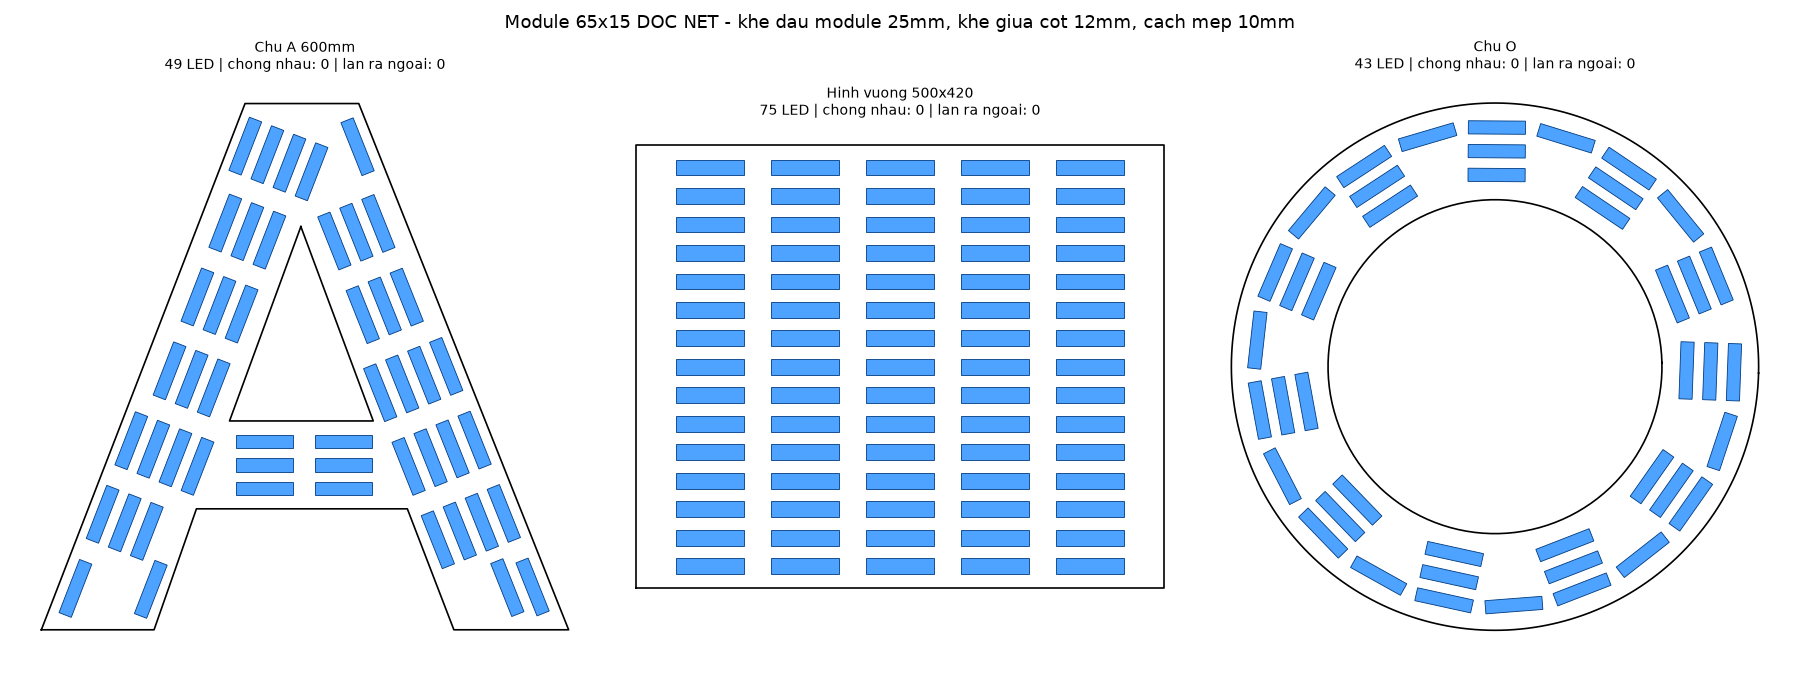
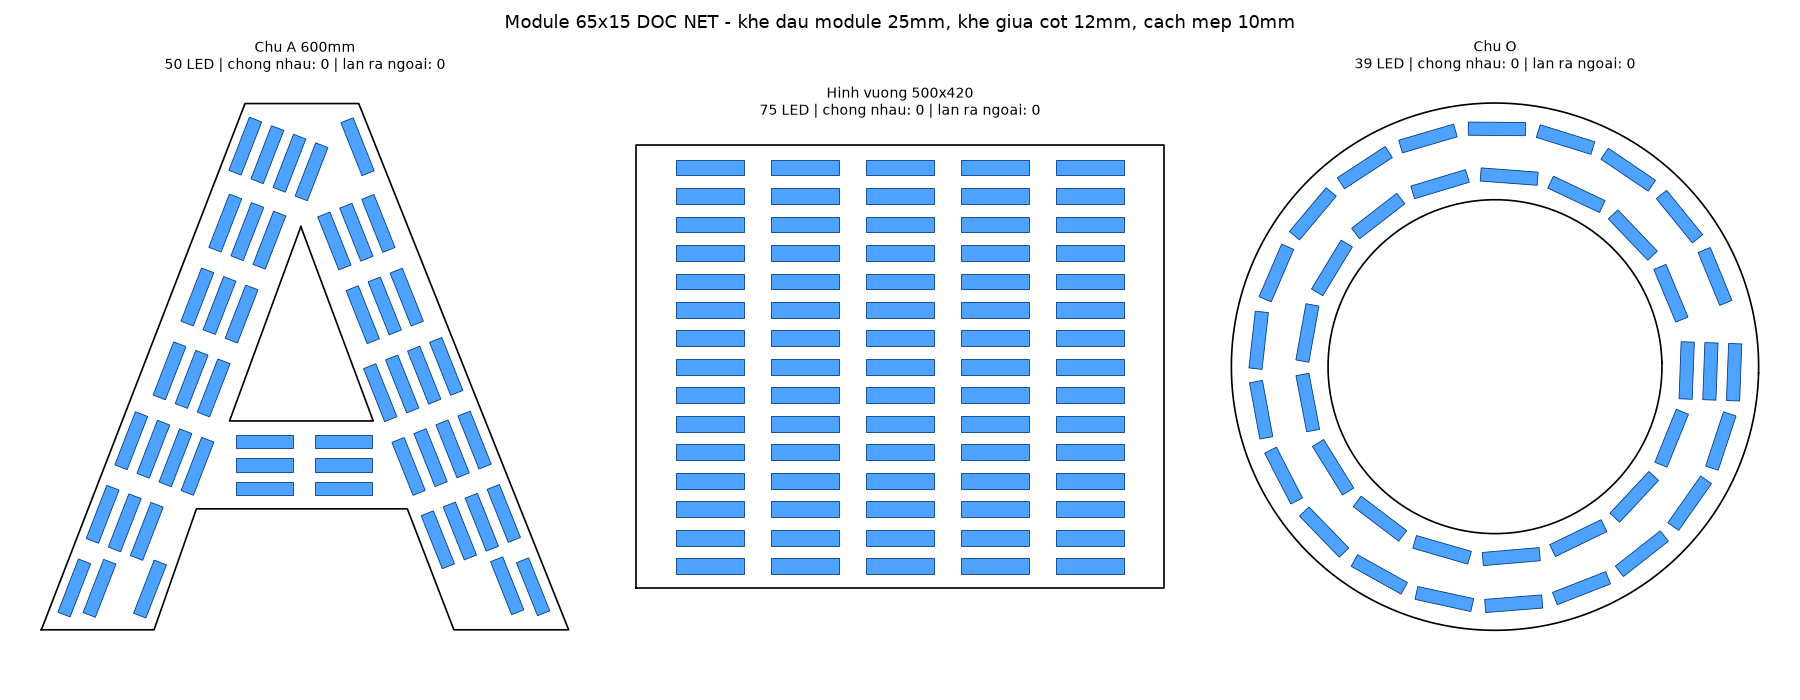
Mo phong: LED doc net om theo net cong, mo phong duong di day noi tiep
Claude-Session: https://claude.ai/code/session_01UdkBWUEPBEAfwjRS5SRwmw

diff --git a/prototype/led_layout.py b/prototype/led_layout.py
@@ -57,6 +57,7 @@ class Layout:
     def __init__(self, poly, cfg):
         self.poly, self.cfg, self.leds = poly, cfg, []
         self.clear = min(cfg.gap, cfg.row_gap)
+        self.tags = []
         self.nodes = [c for ring in [poly.exterior, *poly.interiors] for c in ring.coords]
 
     def inside(self, x, y):                      # = Curve.IsOnCurve(...) = cdrInsideShape
@@ -82,13 +83,14 @@ class Layout:
                 return False
         return True
 
-    def try_add(self, led):
+    def try_add(self, led, idx=0):
         for o in self.leds:
             if sat_overlap(o, led, self.clear):
                 return False
         if not self.fits_shape(led):
             return False
         self.leds.append(led)
+        self.tags.append((getattr(self, "cur_seq", (0, 0)), idx))
         return True
 
     # ---------- Chia duong bao thanh cac doan ----------
@@ -162,11 +164,14 @@ class Layout:
         hl, hw = c.L / 2, c.W / 2
         size_n = c.L if across else c.W        # kich thuoc LED theo chieu ngang net
         nrm = self.normals(pts)
+        step = math.hypot(pts[1].x - pts[0].x, pts[1].y - pts[0].y) if len(pts) > 1 else 1
+        closed = math.hypot(pts[-1].x - pts[0].x, pts[-1].y - pts[0].y) < 2 * step
+        half = max(1, int(round(hl / step)))
         depths = [self.depth(p.x, p.y, v[2], v[3]) for p, v in zip(pts, nrm)]
         med = sorted(depths)[len(depths) // 2]
         rows = {}
         for i, (p, (ux, uy, vx, vy), D) in enumerate(zip(pts, nrm, depths)):
-            if D > med * 1.3:                   # tia xuyen sang net khac (cho giao net)
+            if D > med:                         # tia xuyen sang net khac: giu so cot deu
                 D = med
             avail = D - 2 * m
             if avail < size_n:
@@ -176,10 +181,27 @@ class Layout:
             for k in range(n):
                 off = start + size_n / 2 + k * (size_n + c.row_gap)
                 cx, cy = p.x + vx * off, p.y + vy * off
-                led = (cx, cy, hl, hw, vx, vy) if across else (cx, cy, hl, hw, ux, uy)
+                if across:
+                    led = (cx, cy, hl, hw, vx, vy)
+                else:
+                    # LED doc net: dat theo day cung cua duong chay (om theo net cong)
+                    ia, ib = i - half, i + half
+                    if closed:
+                        ia, ib = ia % len(pts), ib % len(pts)
+                    if 0 <= ia < len(pts) and 0 <= ib < len(pts):
+                        pa, pb = pts[ia], pts[ib]
+                        ax_, ay_ = pa.x + nrm[ia][2] * off, pa.y + nrm[ia][3] * off
+                        bx_, by_ = pb.x + nrm[ib][2] * off, pb.y + nrm[ib][3] * off
+                        dx_, dy_ = bx_ - ax_, by_ - ay_
+                        dd = math.hypot(dx_, dy_) or 1
+                        led = ((ax_ + bx_) / 2, (ay_ + by_) / 2, hl, hw, dx_ / dd, dy_ / dd)
+                    else:
+                        led = (cx, cy, hl, hw, ux, uy)
                 rows.setdefault(k, []).append((i, led))
         phase = None
+        self.run_id = getattr(self, "run_id", 0) + 1
         for k in sorted(rows):
+            self.cur_seq = (self.run_id, k)
             phase = self.place_row(rows[k], ps, phase)
 
     def ok(self, led):
@@ -211,11 +233,12 @@ class Layout:
                         self.try_add(by_idx[i])
             # Doan cong: lap cho trong con lai (doan thang da kin nen khong them gi)
             for i, led in seg:
-                self.try_add(led)
+                self.try_add(led, i)
         return phase
 
     def run(self, mode="auto", fill_gaps=True):
         c = self.cfg
+        self.seq_key = None
         passes = []
         if mode in ("auto", "across"):
             passes.append((True, c.W + c.gap))       # LED nam ngang net

diff --git a/prototype/wiring.py b/prototype/wiring.py
@@ -1,0 +1,81 @@
+"""
+Mo phong duong di day LED noi tiep.
+  - Moi "chuoi" = cac LED cung 1 hang tren 1 doan net, xep theo thu tu doc net.
+  - Noi cac chuoi: tu diem hien tai, di toi dau chuoi gan nhat (tu nhien thanh zic-zac).
+  - Moi LED co 2 dau (dau vao / dau ra) o 2 dau canh dai; tu chon chieu de day ngan nhat.
+  - Tach day moi khi du so LED toi da tren 1 day.
+"""
+import math
+
+
+def led_ends(led):
+    cx, cy, hl, hw, ux, uy = led
+    return (cx - ux * hl, cy - uy * hl), (cx + ux * hl, cy + uy * hl)
+
+
+def dist(a, b):
+    return math.hypot(a[0] - b[0], a[1] - b[1])
+
+
+def outside_ratio(inside, a, b, n=10):
+    """Ti le doan day a-b nam ngoai chu."""
+    bad = sum(1 for k in range(1, n) if not inside(a[0] + (b[0] - a[0]) * k / n, a[1] + (b[1] - a[1]) * k / n))
+    return bad / (n - 1)
+
+
+def build_chains(leds, tags, max_per_wire=30, inside=None):
+    seqs = {}
+    for n, (key, idx) in enumerate(tags):
+        seqs.setdefault(key, []).append((idx, n))
+    seqs = [[n for _, n in sorted(v)] for v in seqs.values()]
+    # tach chuoi neu 2 LED lien tiep qua xa (vi du bi ngat o giao net)
+    parts = []
+    for s in seqs:
+        cur = [s[0]]
+        for a, b in zip(s, s[1:]):
+            if dist(leds[a][:2], leds[b][:2]) > 3 * (leds[a][2] + leds[a][3]):
+                parts.append(cur); cur = []
+            cur.append(b)
+        parts.append(cur)
+
+    # diem bat dau: LED thap nhat ben trai (goc duoi trai chu)
+    order, used = [], [False] * len(parts)
+    start = min(range(len(parts)), key=lambda i: min(leds[n][1] + 0.3 * leds[n][0] for n in parts[i]))
+    cur_pt = None
+    i = start
+    rev = False
+    while i is not None:
+        used[i] = True
+        seq = parts[i][::-1] if rev else parts[i]
+        order.extend(seq)
+        cur_pt = leds[seq[-1]][:2]
+        best, i, rev = None, None, False
+        for j, p in enumerate(parts):
+            if used[j]:
+                continue
+            for r, end in ((False, p[0]), (True, p[-1])):
+                d = dist(cur_pt, leds[end][:2])
+                if inside is not None:          # phat day chay ra ngoai chu
+                    d *= 1 + 5 * outside_ratio(inside, cur_pt, leds[end][:2])
+                if best is None or d < best:
+                    best, i, rev = d, j, r
+
+    # chon dau vao/dau ra cho tung LED va chia day
+    wires, pts = [], []
+    prev_out = None
+    for k, n in enumerate(order):
+        a, b = led_ends(leds[n])
+        if prev_out is None:
+            nxt = leds[order[k + 1]][:2] if k + 1 < len(order) else b
+            inp, out = (a, b) if dist(b, nxt) < dist(a, nxt) else (b, a)
+        else:
+            inp, out = (a, b) if dist(prev_out, a) <= dist(prev_out, b) else (b, a)
+        if len(pts) // 2 >= max_per_wire:
+            wires.append(pts); pts = []; prev_out = None
+            nxt = leds[order[k + 1]][:2] if k + 1 < len(order) else b
+            inp, out = (a, b) if dist(b, nxt) < dist(a, nxt) else (b, a)
+        pts += [inp, out]
+        prev_out = out
+    if pts:
+        wires.append(pts)
+    return wires

diff --git a/prototype/preview_wiring.py b/prototype/preview_wiring.py
@@ -1,0 +1,23 @@
+from led_layout import *
+from wiring import build_chains
+s = 600 / (775 - 266)
+P = lambda pts: [((px - 93) * s, (775 - py) * s) for px, py in pts]
+A = Polygon(P([(93, 775), (290, 266), (400, 266), (603, 775), (492, 775),
+               (447, 658), (243, 658), (202, 775)]), [P([(344, 385), (275, 573), (414, 573)])])
+SQ = Polygon([(0, 0), (500, 0), (500, 420), (0, 420)])
+O = Point(0, 0).buffer(300, 64).difference(Point(0, 0).buffer(190, 64))
+c = Cfg(); c.gap = 25.0; c.row_gap = 12.0; c.margin = 10.0
+colors = ["#e41a1c", "#ff7f00", "#4daf4a", "#984ea3", "#a65628", "#f781bf"]
+fig, axs = plt.subplots(1, 3, figsize=(18, 7.5))
+for ax, (shape, name) in zip(axs, [(A, "Chu A 600mm"), (SQ, "Hinh vuong 500x420"), (O, "Chu O")]):
+    lay = Layout(shape, c); lay.run(mode="along"); draw(ax, lay, name)
+    wires = build_chains(lay.leds, lay.tags, max_per_wire=20, inside=lay.inside)
+    for w, pts in enumerate(wires):
+        col = colors[w % len(colors)]
+        ax.plot([p[0] for p in pts], [p[1] for p in pts], "-", color=col, lw=1.3)
+        ax.plot(*pts[0], "o", color=col, ms=8)
+        ax.annotate(f"IN {w+1}", pts[0], textcoords="offset points", xytext=(4, 4),
+                    fontsize=8, color=col, weight="bold")
+    ax.set_title(ax.get_title() + f" | {len(wires)} day (toi da 20 LED/day)", fontsize=10)
+fig.suptitle("Mo phong duong di day - LED noi tiep, doc net, zic-zac giua cac cot", fontsize=13)
+plt.tight_layout(); plt.savefig("preview_wiring.png", dpi=100)
